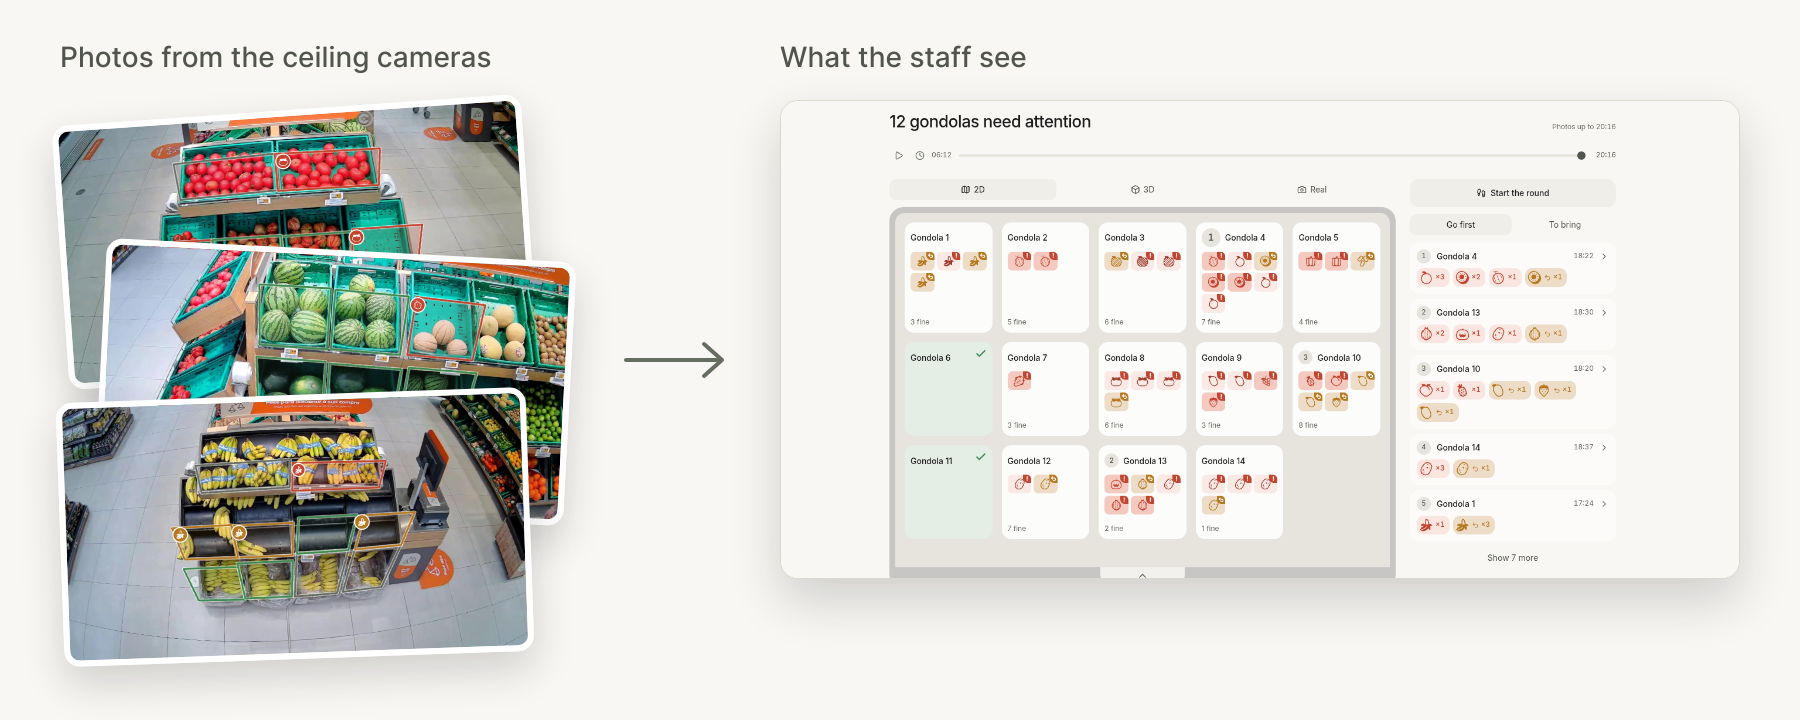
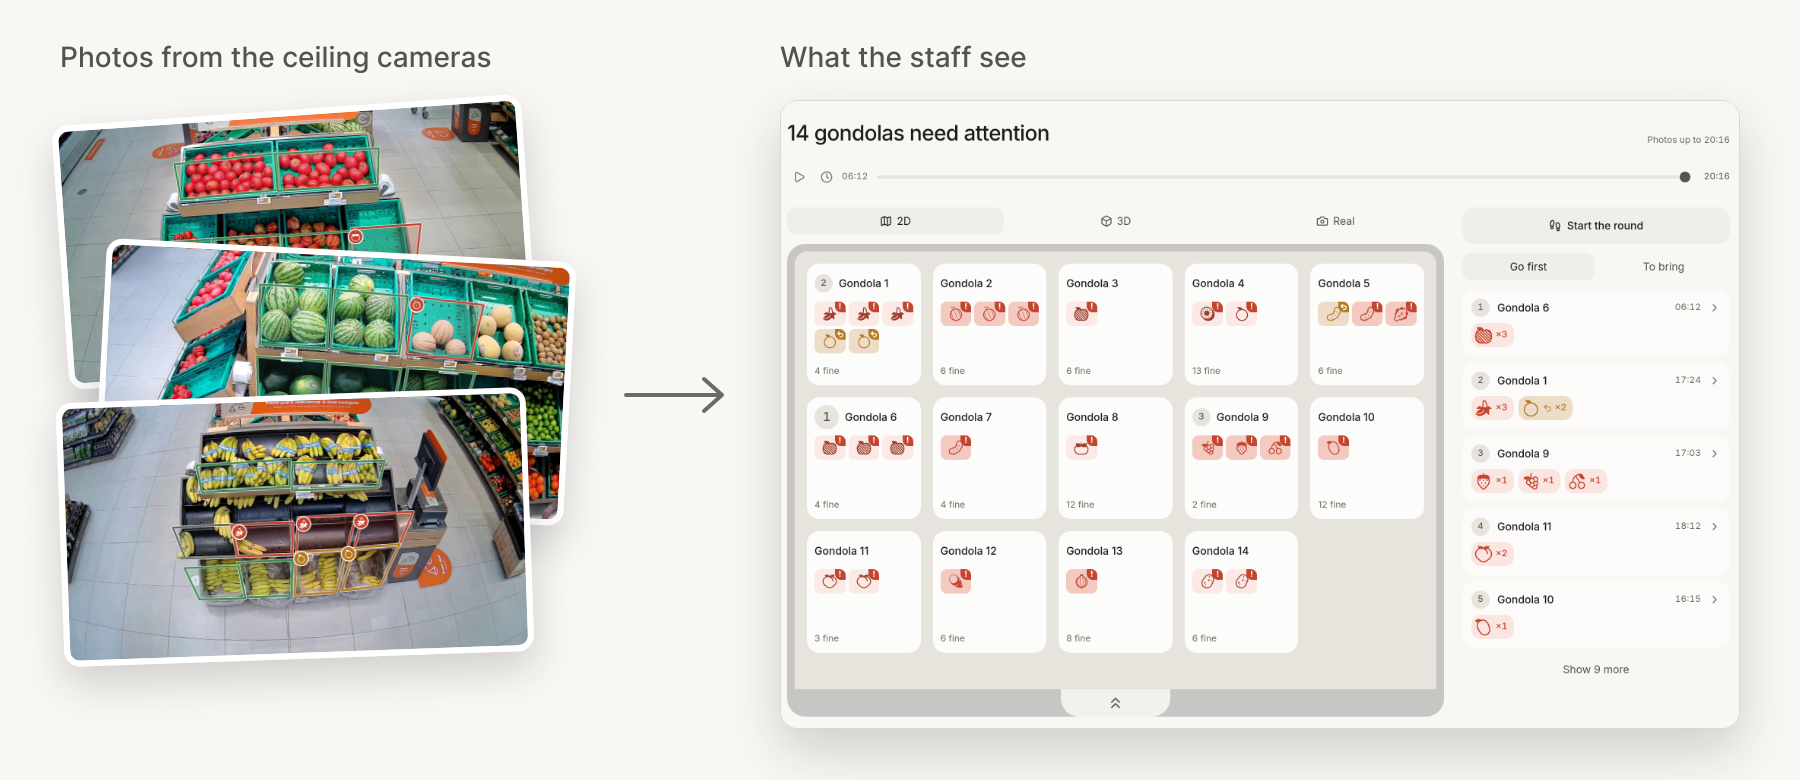
docs: redo the README header picture with the model's answers and update the status

diff --git a/README.es.md b/README.es.md
@@ -26,7 +26,7 @@
   <img src="assets/readme/photo-to-tasks.png" alt="Fotos de cámaras de techo con las zonas de estantería marcadas, a la izquierda, y a la derecha la primera página de la app: el plano de la tienda con los problemas marcados en cada góndola y la lista de la ronda" width="100%">
 </p>
 
-<p align="center"><sub>Entran fotos de las cámaras de techo, sale una lista de trabajo. Los estados de las estanterías en esta imagen son simulados.</sub></p>
+<p align="center"><sub>Entran fotos de las cámaras de techo, sale una lista de trabajo. Las marcas son las respuestas del modelo para la última foto de cada cámara.</sub></p>
 
 ## ¿Qué es Strivon?
 
@@ -56,7 +56,7 @@ La app agrupa las tareas por góndola para poder planificar una ronda: el plano 
 - **Predecir una carpeta de fotos** desde la línea de comandos: un JSON con `planogram_compliant` y `stock_level` para cada zona.
 - **Puntuar las predicciones** con nuestras propias etiquetas y los puntos del reto.
 
-> **Estado.** La app todavía muestra estados de estantería simulados. Conectarla a las predicciones reales del pipeline es el siguiente paso.
+> **Estado.** La app muestra las respuestas del modelo cuando encuentra `outputs/predictions.json`, que escribe `agents/predict.py`, y estados de estantería simulados cuando no. La demo de la landing y la imagen principal usan las respuestas del modelo.
 
 ## Verlo
 

diff --git a/README.pt.md b/README.pt.md
@@ -26,7 +26,7 @@
   <img src="assets/readme/photo-to-tasks.png" alt="Fotografias de câmaras de teto com as zonas da prateleira assinaladas, à esquerda, e à direita a primeira página da aplicação: o plano da loja com os problemas assinalados em cada gôndola e a lista da ronda" width="100%">
 </p>
 
-<p align="center"><sub>Entram fotografias das câmaras de teto, sai uma lista de trabalho. Os estados das prateleiras nesta imagem são simulados.</sub></p>
+<p align="center"><sub>Entram fotografias das câmaras de teto, sai uma lista de trabalho. As marcas são as respostas do modelo para a última fotografia de cada câmara.</sub></p>
 
 ## O que é o Strivon?
 
@@ -56,7 +56,7 @@ A aplicação agrupa as tarefas por gôndola para se poder planear uma ronda: o 
 - **Prever uma pasta de fotografias** a partir da linha de comandos: um JSON com `planogram_compliant` e `stock_level` para cada zona.
 - **Pontuar as previsões** com as nossas próprias etiquetas e os pontos do desafio.
 
-> **Estado.** A aplicação ainda mostra estados de prateleira simulados. Ligá-la às previsões reais do pipeline é o passo seguinte.
+> **Estado.** A aplicação mostra as respostas do modelo quando encontra `outputs/predictions.json`, que o `agents/predict.py` escreve, e estados de prateleira simulados quando não. A demo da landing e a imagem principal usam as respostas do modelo.
 
 ## Ver
 

diff --git a/README.md b/README.md
@@ -27,7 +27,7 @@
   <img src="assets/readme/photo-to-tasks.png" alt="Photos from ceiling cameras with the shelf areas marked on them, on the left, and on the right the app's first page: the plan of the store with the problems marked on each gondola, and the round list" width="100%">
 </p>
 
-<p align="center"><sub>Photos from the ceiling cameras in, a list of work out. The shelf states in this image are simulated.</sub></p>
+<p align="center"><sub>Photos from the ceiling cameras in, a list of work out. The marks are the model's answers for the last photo of each camera.</sub></p>
 
 ## What is Strivon?
 
@@ -70,8 +70,9 @@ tasks: see [`docs/PLAN.md`](docs/PLAN.md).
   `stock_level` for every area.
 - **Score the predictions** against our own labels with the challenge's points.
 
-> **Status.** The app still shows simulated shelf states. Connecting it to the pipeline's real
-> predictions is the next step.
+> **Status.** The app shows the model's answers when it finds `outputs/predictions.json`, which
+> `agents/predict.py` writes, and simulated shelf states when it does not. The landing demo and the
+> header picture use the model's answers.
 
 ## See it
 
